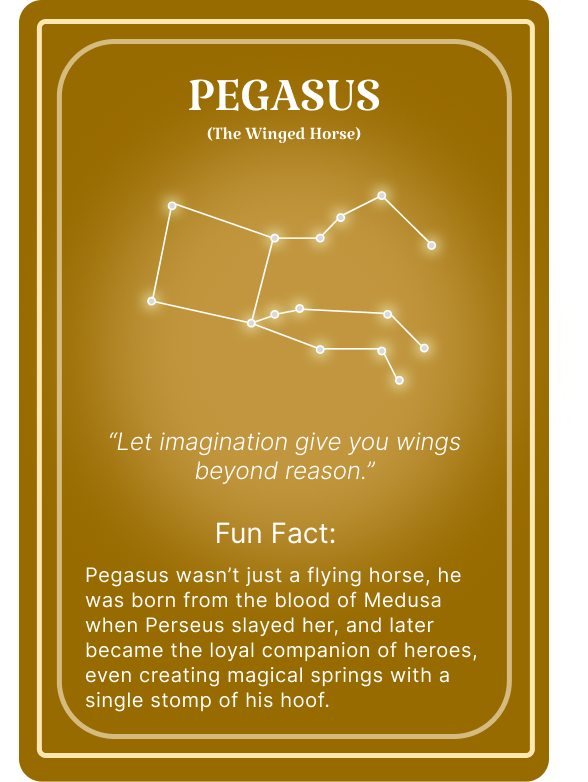
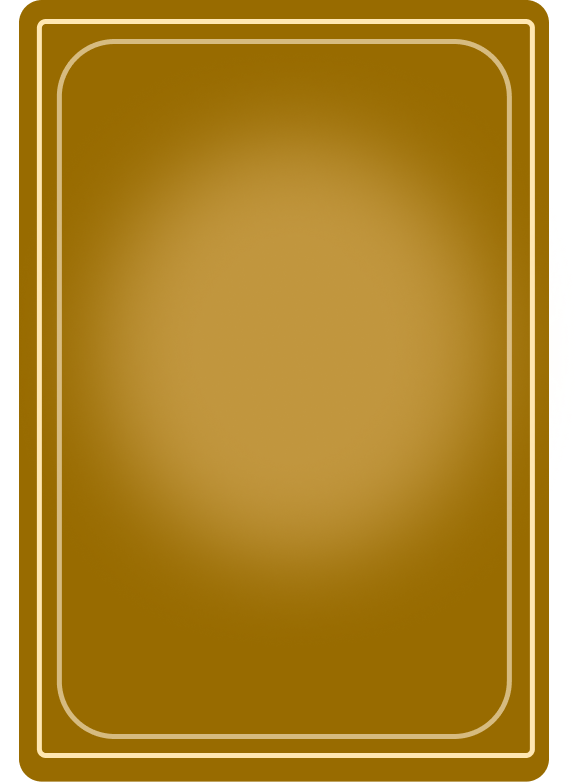
add inside cards

diff --git a/src/ConstellationDetail.jsx b/src/ConstellationDetail.jsx
@@ -6,70 +6,102 @@ const constellationData = {
     name: 'Ursa Minor',
     meaning: 'The Little Bear',
     file: 'usraminor.svg',
-    description: 'The guardian of the north, guiding travelers through darkness with its unwavering light.'
+    cardImage: 'little bear.png',
+    description: 'The guardian of the north, guiding travelers through darkness with its unwavering light.',
+    quote: 'In the darkest night, find your guiding light.',
+    funFact: 'Ursa Minor contains Polaris, the North Star, which has been used for navigation for thousands of years and remains almost perfectly aligned with Earth\'s rotational axis.'
   },
   'ursa-major': {
     name: 'Ursa Major',
     meaning: 'The Great Bear',
     file: 'greatBear.svg',
-    description: 'A celestial guide, its seven stars forming the Big Dipper, a beacon of direction and hope.'
+    cardImage: 'greatbear.png',
+    description: 'A celestial guide, its seven stars forming the Big Dipper, a beacon of direction and hope.',
+    quote: 'Follow the stars that lead you home.',
+    funFact: 'The Big Dipper is not actually a constellation itself, but an asterism within Ursa Major. Its seven stars have been used for navigation and storytelling across countless cultures throughout history.'
   },
   'cassiopeia': {
     name: 'Cassiopeia',
     meaning: 'The Queen',
     file: 'castopia.svg',
-    description: 'The vain queen of the heavens, forever bound to her throne, a reminder of hubris and consequence.'
+    cardImage: 'Cassopia.png',
+    description: 'The vain queen of the heavens, forever bound to her throne, a reminder of hubris and consequence.',
+    quote: 'Pride may crown you, but humility sustains you.',
+    funFact: 'Cassiopeia is easily recognizable by its distinctive W or M shape. In Greek mythology, she was punished for her vanity by being placed in the sky, where she must spend half her time upside down.'
   },
   'pegasus': {
     name: 'Pegasus',
     meaning: 'The Winged Horse',
     file: 'Pegasus.svg',
-    description: 'Born from Medusa\'s blood, symbol of inspiration and flight, carrying dreams across the cosmos.'
+    cardImage: 'pegasus.png',
+    description: 'Born from Medusa\'s blood, symbol of inspiration and flight, carrying dreams across the cosmos.',
+    quote: 'Let imagination give you wings beyond reason.',
+    funFact: 'Pegasus wasn\'t just a flying horse, he was born from the blood of Medusa when Perseus slayed her, and later became the loyal companion of heroes, even creating magical springs with a single stomp of his hoof.'
   },
   'gemini': {
     name: 'Gemini',
     meaning: 'The Twins',
     file: 'gemini.svg',
-    description: 'The celestial twins, Castor and Pollux, bound by brotherhood and the eternal dance of duality.'
+    cardImage: 'Gemini.png',
+    description: 'The celestial twins, Castor and Pollux, bound by brotherhood and the eternal dance of duality.',
+    quote: 'In unity, we find our greatest strength.',
+    funFact: 'The two brightest stars in Gemini are named Castor and Pollux after the twin brothers from Greek mythology. Castor was mortal while Pollux was immortal, and they were so close that Zeus placed them together in the sky.'
   },
   'andromeda': {
     name: 'Andromeda',
     meaning: 'The Princess',
     file: 'andromeda.svg',
-    description: 'The chained princess, saved by Perseus, a constellation of sacrifice and liberation.'
+    cardImage: 'Andromedant.png',
+    description: 'The chained princess, saved by Perseus, a constellation of sacrifice and liberation.',
+    quote: 'From chains to freedom, hope always finds a way.',
+    funFact: 'Andromeda is home to the Andromeda Galaxy, the nearest major galaxy to our Milky Way, visible to the naked eye on clear nights. It contains over a trillion stars and is on a collision course with our galaxy.'
   },
   'leo': {
     name: 'Leo',
     meaning: 'The Lion',
     file: 'Leo.svg',
-    description: 'The mighty lion of the zodiac, symbol of courage, strength, and the fire within.'
+    cardImage: 'leo.png',
+    description: 'The mighty lion of the zodiac, symbol of courage, strength, and the fire within.',
+    quote: 'Roar with the courage that defines you.',
+    funFact: 'Leo contains Regulus, one of the brightest stars in the night sky, known as the "Heart of the Lion." In ancient times, the appearance of Leo in the sky marked the beginning of the hot summer months.'
   },
   'scorpius': {
     name: 'Scorpius',
     meaning: 'The Scorpion',
     file: 'scorpio.svg',
-    description: 'The deadly scorpion that felled Orion, a reminder of nature\'s power and the cycle of life.'
+    cardImage: 'scorpious.png',
+    description: 'The deadly scorpion that felled Orion, a reminder of nature\'s power and the cycle of life.',
+    quote: 'Even the smallest can bring down the mightiest.',
+    funFact: 'Scorpius contains Antares, a red supergiant star that is one of the largest known stars. If placed at the center of our solar system, it would extend beyond the orbit of Mars.'
   },
   'orion': {
     name: 'Orion',
     meaning: 'The Hunter',
     file: 'orion.svg',
-    description: 'The great hunter, forever pursuing the Pleiades, a constellation of ambition and eternal quest.'
+    cardImage: 'orion.png',
+    description: 'The great hunter, forever pursuing the Pleiades, a constellation of ambition and eternal quest.',
+    quote: 'Hunt not for what you need, but for what you dream.',
+    funFact: 'Orion\'s Belt, three bright stars in a row, is one of the most recognizable asterisms in the night sky. The constellation also contains the Orion Nebula, a stellar nursery where new stars are being born.'
   },
   'taurus': {
     name: 'Taurus',
     meaning: 'The Bull',
     file: 'taurus.svg',
-    description: 'The celestial bull, symbol of fertility and strength, charging through the starry fields.'
+    cardImage: 'Taurus.png',
+    description: 'The celestial bull, symbol of fertility and strength, charging through the starry fields.',
+    quote: 'Charge forward with unwavering determination.',
+    funFact: 'Taurus contains the Pleiades star cluster, also known as the Seven Sisters, which has been observed and celebrated by cultures worldwide. The cluster is actually made up of hundreds of stars, though only six or seven are visible to the naked eye.'
   }
 }
 
 function ConstellationDetail({ constellationId, onBack }) {
   const [constellation, setConstellation] = useState(null)
+  const [isFlipped, setIsFlipped] = useState(false)
 
   useEffect(() => {
     if (constellationId && constellationData[constellationId]) {
       setConstellation(constellationData[constellationId])
+      setIsFlipped(false)
     }
   }, [constellationId])
 
@@ -86,12 +118,24 @@ function ConstellationDetail({ constellationId, onBack }) {
           </button>
         </div>
         <div className="detail-left">
-          <div className="card-container">
-            <img 
-              src="/cards/Card.png" 
-              alt="Card"
-              className="card-image"
-            />
+          <div 
+            className={`card-container ${isFlipped ? 'flipped' : ''}`}
+            onClick={() => setIsFlipped(!isFlipped)}
+          >
+            <div className="card-front">
+              <img 
+                src="/cards/Card.png" 
+                alt="Card"
+                className="card-image"
+              />
+            </div>
+            <div className="card-back">
+              <img 
+                src={`/cards/${constellation.cardImage}`}
+                alt={`${constellation.name} Card`}
+                className="card-image"
+              />
+            </div>
           </div>
         </div>
         <div className="detail-right">

diff --git a/src/ConstellationDetail.css b/src/ConstellationDetail.css
@@ -75,13 +75,115 @@
   width: 100%;
   max-width: 400px;
   aspect-ratio: 2 / 3;
+  cursor: pointer;
+  transform-style: preserve-3d;
+  transition: transform 0.8s;
+}
+
+.card-container:hover .card-image {
+  filter: drop-shadow(0 0 60px rgba(255, 216, 154, 0.4));
+  transition: filter 0.3s ease;
+}
+
+.card-container.flipped {
+  transform: rotateY(180deg);
+}
+
+.card-front,
+.card-back {
+  position: absolute;
+  width: 100%;
+  height: 100%;
+  backface-visibility: hidden;
+  -webkit-backface-visibility: hidden;
+}
+
+.card-back {
+  transform: rotateY(180deg);
 }
 
 .card-image {
   width: 100%;
   height: 100%;
   object-fit: contain;
-  filter: drop-shadow(0 10px 30px rgba(0, 0, 0, 0.5));
+  filter: drop-shadow(0 0 40px rgba(255, 216, 154, 0.15));
+  transition: filter 0.3s ease;
+}
+
+.card-content {
+  position: absolute;
+  top: 0;
+  left: 0;
+  width: 100%;
+  height: 100%;
+  padding: 2rem 2.2rem;
+  box-sizing: border-box;
+  display: flex;
+  flex-direction: column;
+  align-items: center;
+  justify-content: flex-start;
+  color: white;
+  font-family: system-ui, -apple-system, sans-serif;
+  pointer-events: none;
+}
+
+.card-title {
+  font-size: 1.5rem;
+  font-weight: 700;
+  margin: 0.6rem 0 0.15rem 0;
+  text-align: center;
+  font-family: serif;
+  letter-spacing: 0.1em;
+}
+
+.card-subtitle {
+  font-size: 0.75rem;
+  margin: 0 0 1rem 0;
+  text-align: center;
+  font-family: system-ui, -apple-system, sans-serif;
+  opacity: 0.95;
+}
+
+.card-constellation {
+  margin: 0.4rem 0 1rem 0;
+  width: 100%;
+  display: flex;
+  justify-content: center;
+  align-items: center;
+}
+
+.card-constellation-svg {
+  width: 190px;
+  height: auto;
+  filter: brightness(1.5) drop-shadow(0 0 12px rgba(255, 255, 255, 0.8));
+}
+
+.card-quote {
+  font-size: 0.72rem;
+  font-style: italic;
+  text-align: center;
+  margin: 0.7rem 0;
+  line-height: 1.8;
+  padding: 0 1rem;
+  font-family: system-ui, -apple-system, sans-serif;
+}
+
+.card-fun-fact-label {
+  font-size: 0.78rem;
+  font-weight: 700;
+  margin: 0.5rem 0 0.25rem 0;
+  text-align: left;
+  width: 100%;
+  font-family: system-ui, -apple-system, sans-serif;
+}
+
+.card-fun-fact {
+  font-size: 0.65rem;
+  text-align: left;
+  line-height: 1.65;
+  margin: 0;
+  width: 100%;
+  font-family: system-ui, -apple-system, sans-serif;
 }
 
 .detail-right {
